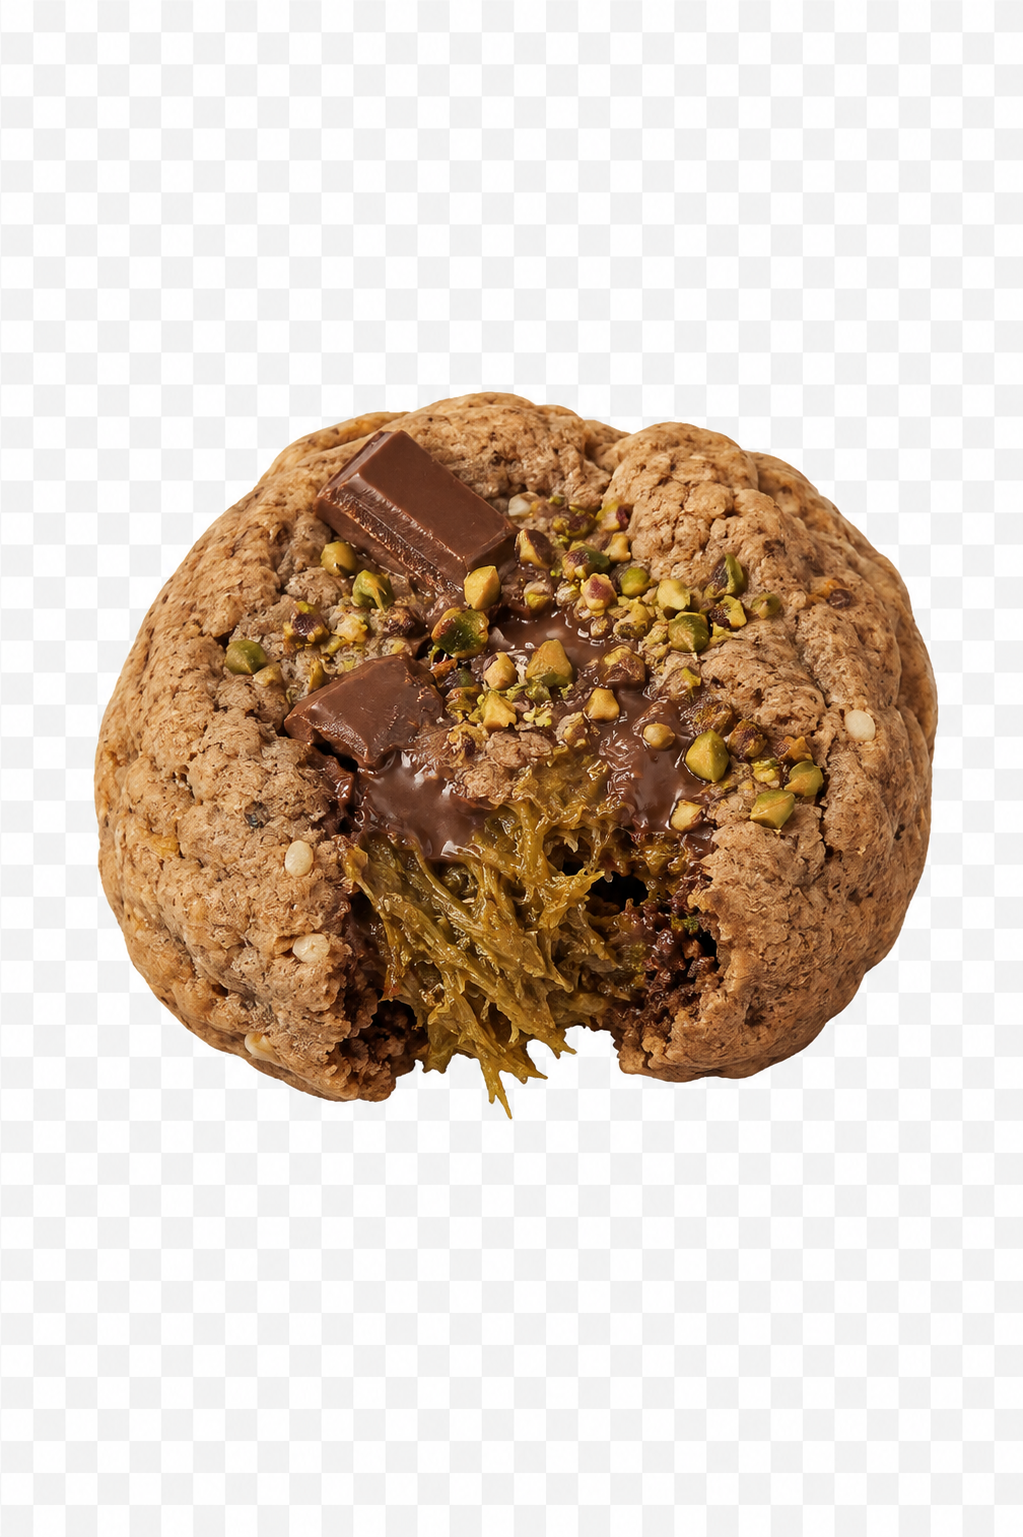
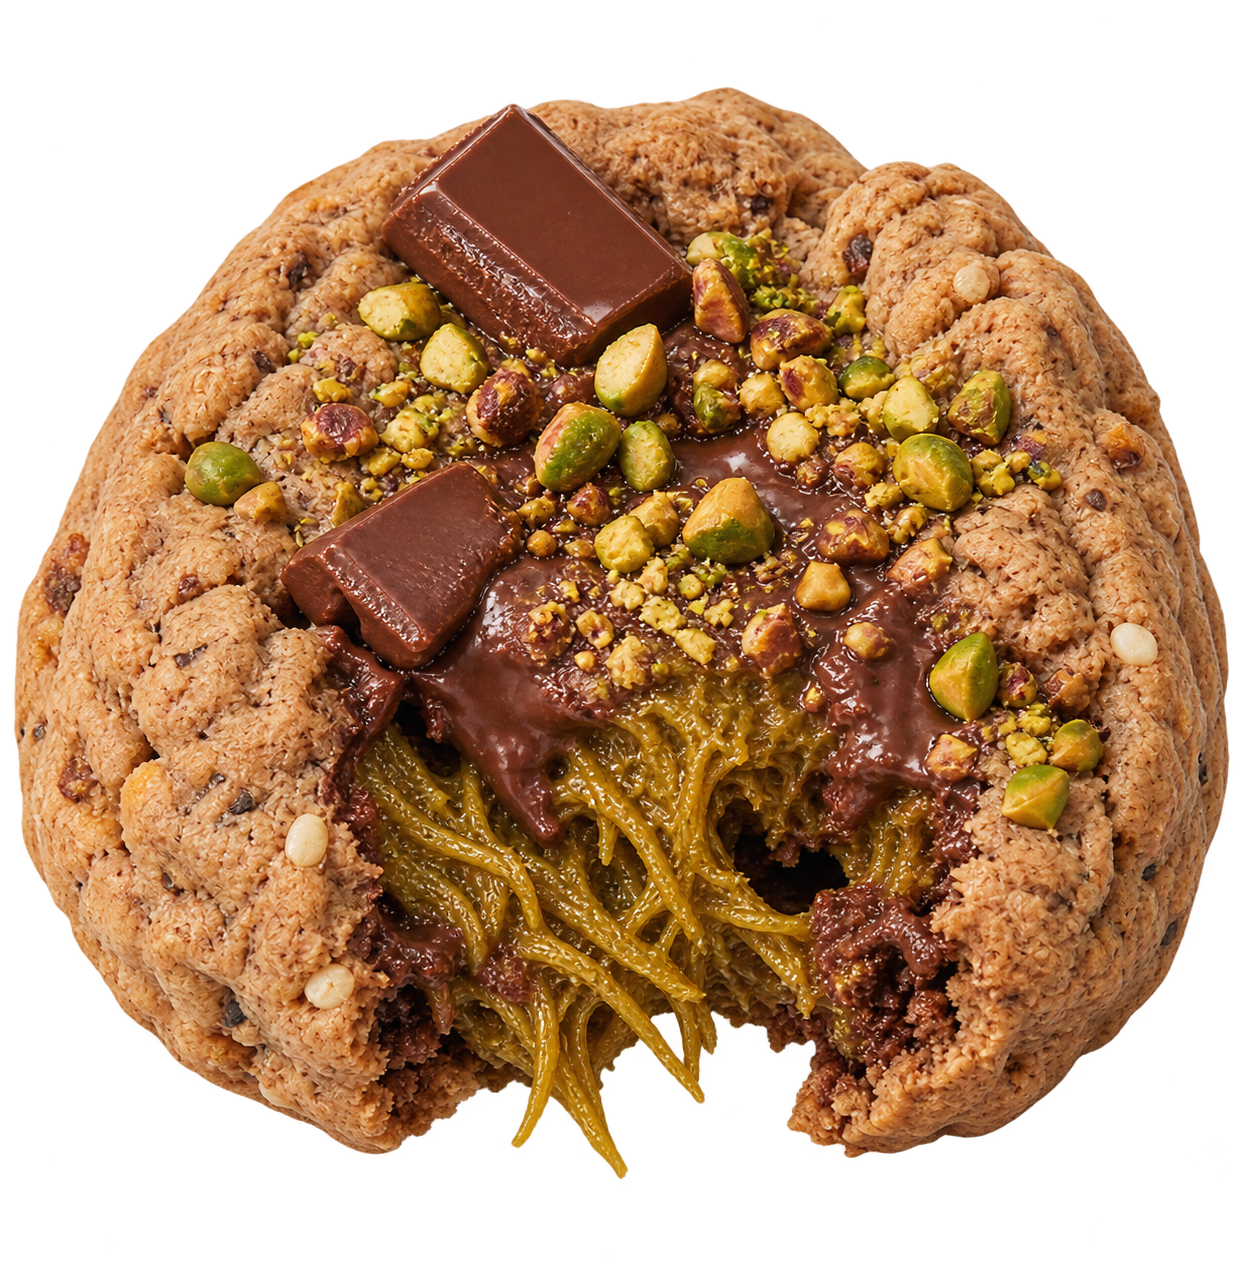
dubai chocolate

diff --git a/lib/screens/home/views/details_screen.dart b/lib/screens/home/views/details_screen.dart
@@ -57,14 +57,14 @@ class _DetailsScreenState extends State<DetailsScreen> {
                             widthFactor:
                                 (cookie.name == 'Nutella' ||
                                     cookie.name == 'Marzipan' ||
-                                    cookie.name == 'Dubai Chocolate' ||
+                                    // cookie.name == 'Dubai Chocolate' ||
                                     cookie.name == 'Oreo')
                                 ? 0.51
                                 : 1.0,
                             heightFactor:
                                 (cookie.name == 'Nutella' ||
                                     cookie.name == 'Marzipan' ||
-                                    cookie.name == 'Dubai Chocolate' ||
+                                    // cookie.name == 'Dubai Chocolate' ||
                                     cookie.name == 'Oreo')
                                 ? 0.51
                                 : 1.0,

diff --git a/lib/screens/home/widgets/collection/cookie_card.dart b/lib/screens/home/widgets/collection/cookie_card.dart
@@ -49,14 +49,14 @@ class CookieCard extends StatelessWidget {
                              widthFactor:
                                 (cookie.name == 'Nutella' ||
                                     cookie.name == 'Marzipan' ||
-                                    cookie.name == 'Dubai Chocolate' ||
+                                    // cookie.name == 'Dubai Chocolate' ||
                                     cookie.name == 'Oreo')
                                 ? 0.51
                                 : 1.0,
                             heightFactor:
                                 (cookie.name == 'Nutella' ||
                                     cookie.name == 'Marzipan' ||
-                                    cookie.name == 'Dubai Chocolate' ||
+                                    // cookie.name == 'Dubai Chocolate' ||
                                     cookie.name == 'Oreo')
                                 ? 0.51
                                 : 1.0,
